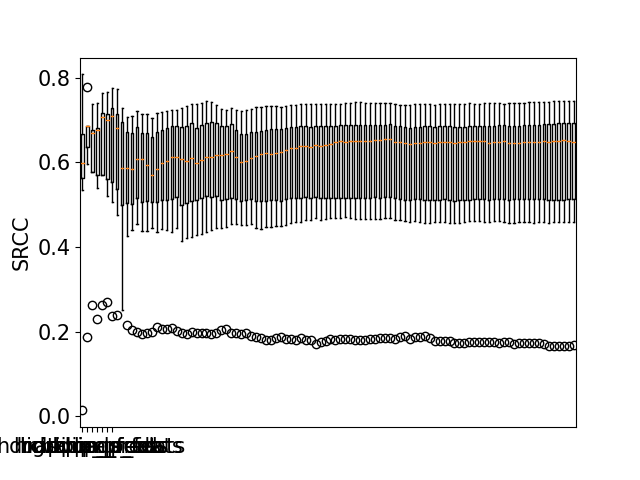
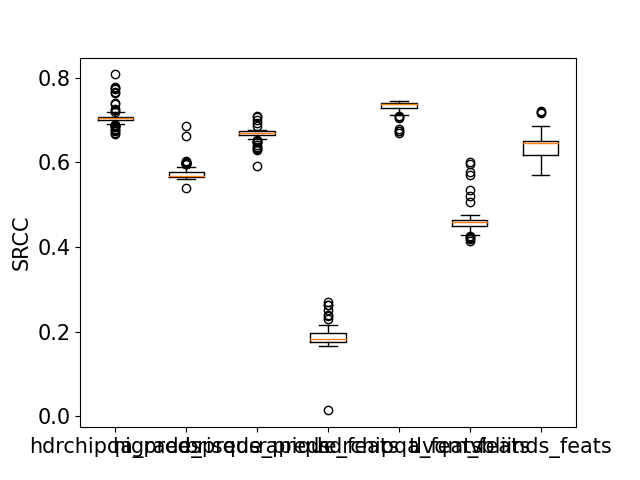
boxplot

diff --git a/plot_boxplot.py b/plot_boxplot.py
@@ -74,7 +74,7 @@ plt.figure()
 plt.clf()
 
 print(len(tzf_names))
-plt.boxplot(X)
+plt.boxplot(X.T)
 plt.xticks(np.arange(len(tzf_names))+1, tzf_names)
 
 
